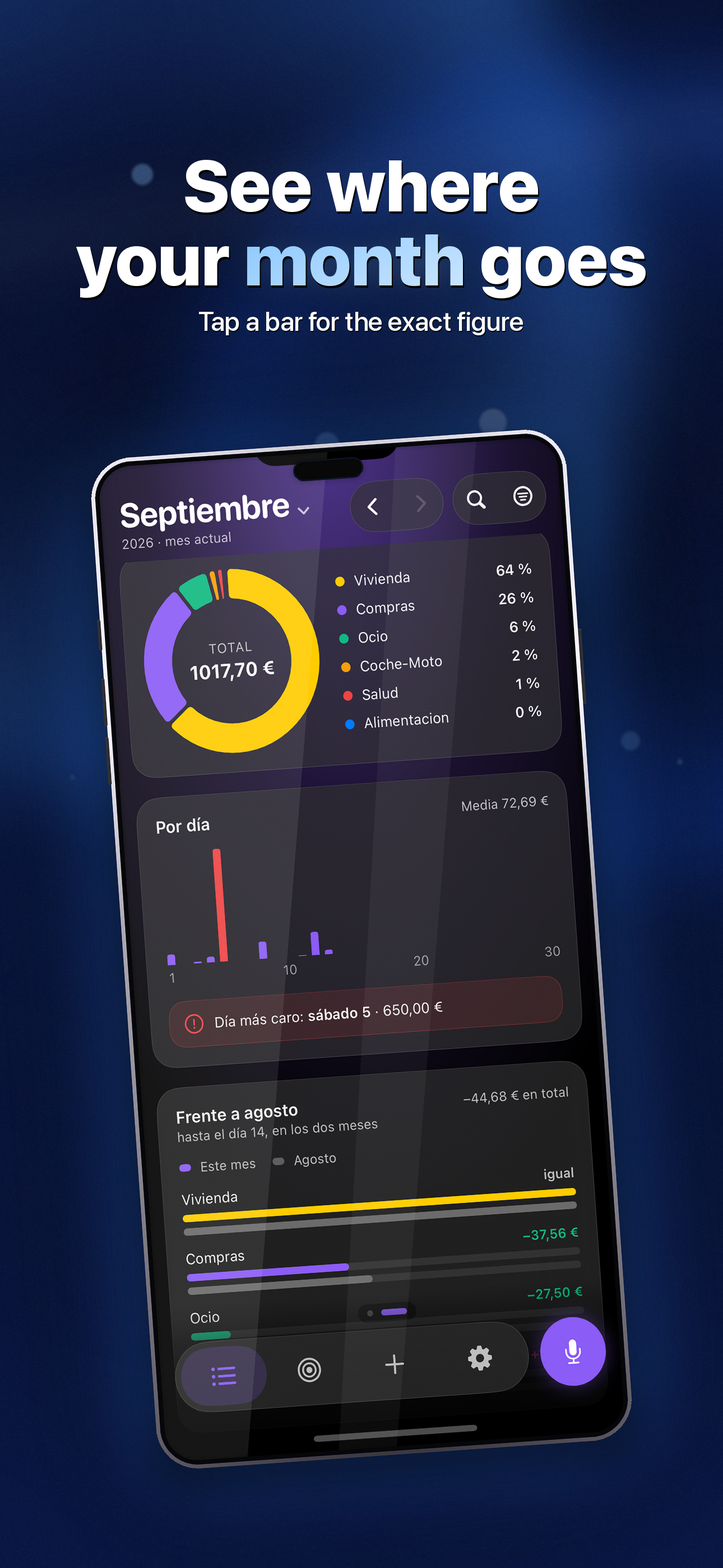
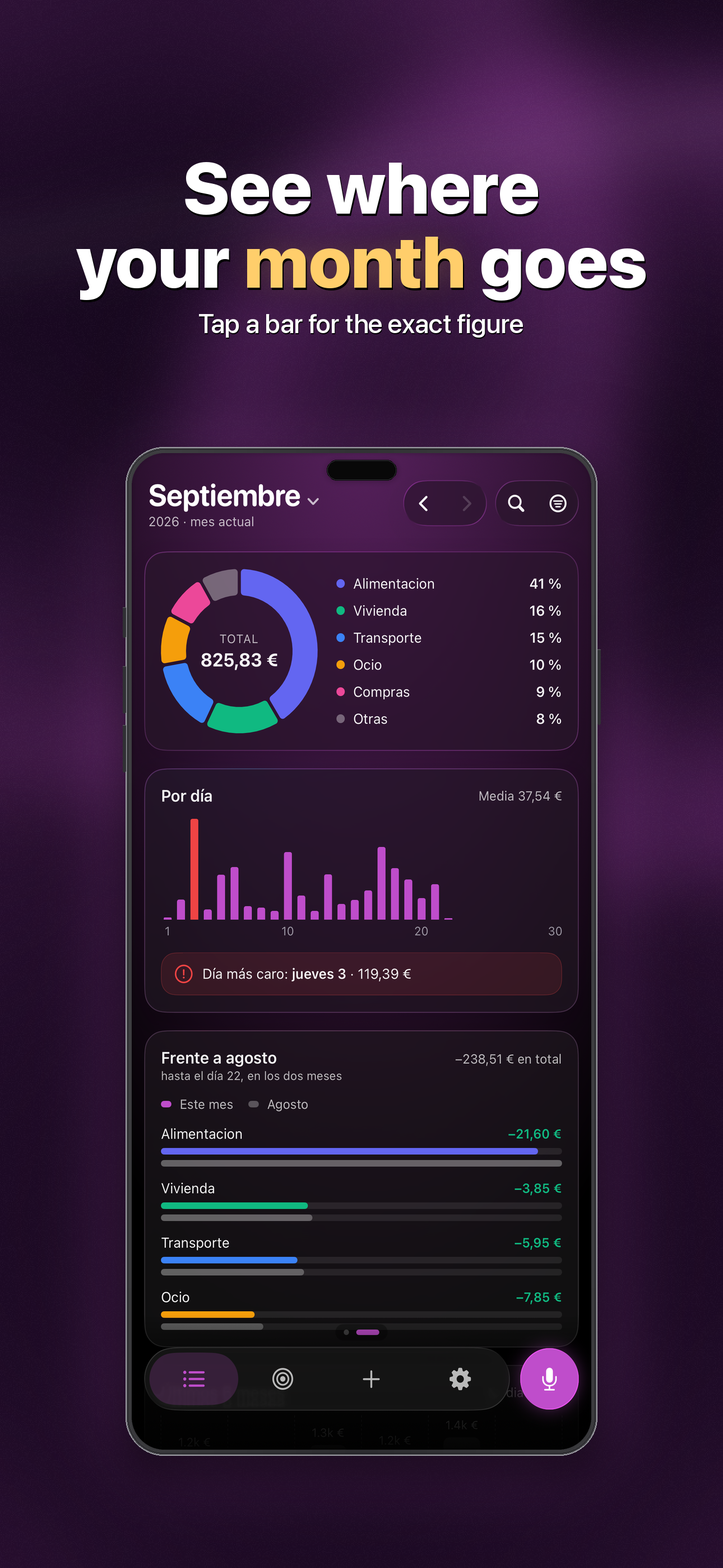
chore(tienda): capturas nuevas con datos inventados y la paleta Deep Berry
Las de antes salían de la cuenta real del desarrollador, con sus gastos y la
paleta violeta de la 2.2. Las nuevas se hacen con el modo demo en un
simulador propio (iPhone 17 Pro Max, iOS 26.5, oscuro, barra de estado
limpia) y se pasan a 1290x2796 escalando a lo ancho y recortando 7 px.

- Home, Gráficas y Metas nuevas en marketing/screenshots/input; 4_voice y
  4_voice_en compuestas de nuevo sobre la Home nueva.
- componer_captura_voz.py y generate_mockups.py con la paleta Deep Berry:
  fondo y brillos en orquídea/berry y la palabra destacada en mango. La
  captura de voz ya no dice «Coche-Moto», una categoría personal, sino
  Transporte, la de fábrica.
- generate_mockups.py monta el 01 desde 4_voice.png (con 1_home.png quedaba
  igual que el 04, #71) y el subtítulo de Metas vuelve a ser el publicado,
  «límites por categoría».
- Candidata fuera de fastlane: mockup_05_editar, la Home en modo edición,
  «Tu Home, a tu manera» / «Your Home, your way».
- fastlane/screenshots/{es-ES,en-US}: los cuatro mockups nuevos.

diff --git a/scripts/generate_mockups.py b/scripts/generate_mockups.py
@@ -88,32 +88,38 @@ def load_font(size: int, weight: str = "Bold", rounded: bool = False) -> ImageFo
     return font
 
 
+# ─── Paleta Deep Berry (Clarity/UI/Theme/Colors.swift, desde la 2.3.1) ─
+# Fondo y brillos en la familia berry; la palabra destacada del titular en
+# clarityMango, el único acento cálido de la app (el de la cifra del héroe y
+# el botón principal).
+PRIMARY = (191, 77, 203)     # clarityPrimary   #BF4DCB (orquídea)
+SECONDARY = (218, 141, 226)  # claritySecondary #DA8DE2
+ACCENT = (141, 59, 150)      # clarityAccent    #8D3B96
+BERRY = (88, 33, 94)         # clarityBerry     #58215E
+MANGO = (255, 206, 107)      # clarityMango     #FFCE6B
+
 # ─── Mockup configurations ────────────────────────────────────────────
 # `accent`: word(s) inside `headline` that get colored (case-insensitive match)
 # `blobs`: list of (x_frac, y_frac, radius, rgb, alpha) for mesh gradient
 # `chip`: optional floating feature pill (text, emoji, position anchor)
 MOCKUPS = [
     {
-        "input": "1_home.png",
+        # Compuesta por componer_captura_voz.py: la Home desenfocada con el
+        # panel de escucha. Con 1_home.png salía igual que la 04 (#71).
+        "input": "4_voice.png",
         "output": "mockup_01_voice.png",
         # La prueba visual del diferenciador: la app escuchando y parseando.
         "headline": "\"20 euros\nen gasolina\"",
         "accent": "gasolina",
         "subtitle": "Por voz o con Siri, sin escribir nada",
-        "bg_base": (30, 10, 60),
+        "bg_base": (30, 9, 34),
         "blobs": [
-            (0.20, 0.18, 900, (190, 100, 255), 160),
-            (0.85, 0.35, 780, (130, 50, 230), 140),
-            (0.50, 0.78, 1100, (55, 15, 110), 110),
+            (0.20, 0.18, 900, PRIMARY, 150),
+            (0.85, 0.35, 780, ACCENT, 140),
+            (0.50, 0.78, 1100, BERRY, 120),
         ],
-        "accent_color": (220, 175, 255),
-        "shadow_tint": (150, 70, 240),
-        "voice_overlay": {
-            "phrase": "\"20 euros en gasolina\"",
-            "result_name": "Gasolina",
-            "result_amount": "20,00 €",
-            "result_emoji": "⛽",
-        },
+        "accent_color": MANGO,
+        "shadow_tint": PRIMARY,
     },
     {
         "input": "1_home.png",
@@ -123,14 +129,14 @@ MOCKUPS = [
         "headline": "Controla tus gastos\nal instante",
         "accent": "gastos",
         "subtitle": "Una Home que sabe lo que te importa",
-        "bg_base": (28, 12, 52),
+        "bg_base": (28, 8, 32),
         "blobs": [
-            (0.18, 0.18, 900, (155, 80, 255), 160),
-            (0.85, 0.35, 750, (95, 40, 200), 130),
-            (0.50, 0.75, 1100, (60, 20, 140), 110),
+            (0.18, 0.18, 900, PRIMARY, 150),
+            (0.85, 0.35, 750, SECONDARY, 90),
+            (0.50, 0.75, 1100, BERRY, 120),
         ],
-        "accent_color": (210, 170, 255),
-        "shadow_tint": (120, 60, 230),
+        "accent_color": MANGO,
+        "shadow_tint": PRIMARY,
         "chip": {"emoji": "🎙", "text": "\"20 € en gasolina\"", "side": "left"},
     },
     {
@@ -139,14 +145,14 @@ MOCKUPS = [
         "headline": "Mira en qué\nse te va el mes",
         "accent": "mes",
         "subtitle": "Toca una barra y ve el dato exacto",
-        "bg_base": (8, 18, 55),
+        "bg_base": (24, 8, 32),
         "blobs": [
-            (0.22, 0.20, 900, (60, 140, 255), 160),
-            (0.82, 0.30, 780, (20, 80, 210), 140),
-            (0.50, 0.78, 1100, (10, 40, 120), 110),
+            (0.22, 0.20, 900, ACCENT, 160),
+            (0.82, 0.30, 780, PRIMARY, 120),
+            (0.50, 0.78, 1100, BERRY, 120),
         ],
-        "accent_color": (140, 200, 255),
-        "shadow_tint": (40, 120, 240),
+        "accent_color": MANGO,
+        "shadow_tint": ACCENT,
         "chip": {"emoji": "📊", "text": "Categorías", "side": "right"},
     },
     {
@@ -154,15 +160,15 @@ MOCKUPS = [
         "output": "mockup_03_goals.png",
         "headline": "Ahorra con\nobjetivos claros",
         "accent": "objetivos",
-        "subtitle": "Metas, huchas y presupuestos",
-        "bg_base": (5, 45, 35),
+        "subtitle": "Metas, huchas y límites por categoría",
+        "bg_base": (30, 9, 30),
         "blobs": [
-            (0.20, 0.20, 900, (60, 220, 160), 160),
-            (0.82, 0.32, 780, (20, 170, 120), 140),
-            (0.50, 0.78, 1100, (5, 70, 55), 110),
+            (0.20, 0.20, 900, SECONDARY, 110),
+            (0.82, 0.32, 780, PRIMARY, 140),
+            (0.50, 0.78, 1100, BERRY, 120),
         ],
-        "accent_color": (150, 245, 200),
-        "shadow_tint": (50, 200, 140),
+        "accent_color": MANGO,
+        "shadow_tint": PRIMARY,
         "chip": {"emoji": "🐖", "text": "+200 €", "side": "right"},
     },
     {
@@ -171,15 +177,31 @@ MOCKUPS = [
         "headline": "Sin abrir\nla app",
         "accent": "Sin abrir",
         "subtitle": "Díselo a Siri y listo",
-        "bg_base": (10, 20, 48),
+        "bg_base": (24, 8, 32),
         "blobs": [
-            (0.22, 0.20, 900, (80, 150, 255), 160),
-            (0.82, 0.30, 780, (40, 90, 220), 140),
-            (0.50, 0.78, 1100, (15, 45, 110), 110),
+            (0.22, 0.20, 900, ACCENT, 160),
+            (0.82, 0.30, 780, PRIMARY, 120),
+            (0.50, 0.78, 1100, BERRY, 120),
         ],
-        "accent_color": (150, 200, 255),
-        "shadow_tint": (60, 130, 240),
+        "accent_color": MANGO,
+        "shadow_tint": ACCENT,
         "chip": {"emoji": "✨", "text": "Oye Siri…", "side": "right"},
+    },
+    {
+        # Candidata (2.4.0), fuera de fastlane: la Home en modo edición.
+        "input": "5_editar.png",
+        "output": "mockup_05_editar.png",
+        "headline": "Tu Home,\na tu manera",
+        "accent": "a tu manera",
+        "subtitle": "Mueve, quita y añade tarjetas",
+        "bg_base": (28, 8, 32),
+        "blobs": [
+            (0.80, 0.18, 900, PRIMARY, 150),
+            (0.15, 0.40, 780, SECONDARY, 90),
+            (0.50, 0.78, 1100, BERRY, 120),
+        ],
+        "accent_color": MANGO,
+        "shadow_tint": PRIMARY,
     },
 ]
 
@@ -706,25 +728,26 @@ TRANSLATIONS = {
         "mockup_03_goals.png": {
             "headline": "Save with\nclear goals",
             "accent": "goals",
-            "subtitle": "Goals, pots and budgets",
+            "subtitle": "Goals, pots and limits per category",
             "chip_text": "+200 €",
         },
         "mockup_01_voice.png": {
+            # La compuesta en inglés (componer_captura_voz.py).
+            "input": "4_voice_en.png",
             "headline": '"20 euros\non gas"',
             "accent": "gas",
             "subtitle": "By voice or with Siri, nothing to type",
-            "voice_overlay": {
-                "phrase": '"20 euros on gas"',
-                "result_name": "Gas",
-                "result_amount": "20,00 €",
-                "result_emoji": "⛽",
-            },
         },
         "mockup_05_siri.png": {
             "headline": "Without\nopening the app",
             "accent": "Without",
             "subtitle": "Just tell Siri",
             "chip_text": "Hey Siri…",
+        },
+        "mockup_05_editar.png": {
+            "headline": "Your Home,\nyour way",
+            "accent": "your way",
+            "subtitle": "Move, remove and add cards",
         },
     }
 }
@@ -737,6 +760,8 @@ def localized(config: dict, locale: str) -> dict:
         return config
 
     localized_config = dict(config)
+    if "input" in strings:
+        localized_config["input"] = strings["input"]
     localized_config["headline"] = strings["headline"]
     localized_config["accent"] = strings["accent"]
     localized_config["subtitle"] = strings["subtitle"]

diff --git a/scripts/componer_captura_voz.py b/scripts/componer_captura_voz.py
@@ -22,8 +22,12 @@ sys.path.insert(0, str(Path(__file__).resolve().parent))
 import generate_mockups as g  # load_font y render_emoji
 
 W, H = 1290, 2796
-ACENTO = (190, 140, 255)
-EXITO = (52, 211, 153)
+# Paleta Deep Berry de la app (UI/Theme/Colors.swift): la onda y el importe
+# en claritySecondary, que sobre el panel oscuro se lee mejor que el orquídea.
+ACENTO = (218, 141, 226)   # claritySecondary #DA8DE2
+EXITO = (52, 211, 153)     # el verde de «guardado»: semántico, no de marca
+VELO = (14, 4, 16, 170)    # sobre la Home desenfocada, hacia clarityBerry
+PANEL = (34, 12, 38, 240)  # clarityBerry #58215E muy oscurecido
 
 TEXTOS = {
     "4_voice.png": {
@@ -31,14 +35,14 @@ TEXTOS = {
         "frase": "«20 euros en gasolina»",
         "nombre": "Gasolina",
         "importe": "20,00 €",
-        "guardado": "Guardado en Coche-Moto",
+        "guardado": "Guardado en Transporte",
     },
     "4_voice_en.png": {
         "estado": "LISTENING",
         "frase": "“20 euros on gas”",
         "nombre": "Gas",
         "importe": "20,00 €",
-        "guardado": "Saved to Car",
+        "guardado": "Saved to Transport",
     },
 }
 
@@ -47,7 +51,7 @@ def componer(home: Image.Image, t: dict) -> Image.Image:
     lienzo = home.convert("RGBA").resize((W, H), Image.LANCZOS)
     # La Home, detrás y fuera de foco: que se note que es otro momento.
     lienzo = lienzo.filter(ImageFilter.GaussianBlur(radius=22))
-    lienzo.alpha_composite(Image.new("RGBA", (W, H), (8, 4, 18, 170)))
+    lienzo.alpha_composite(Image.new("RGBA", (W, H), VELO))
 
     margen = 60
     panel_w, panel_h = W - margen * 2, 1240
@@ -56,7 +60,7 @@ def componer(home: Image.Image, t: dict) -> Image.Image:
     panel = Image.new("RGBA", (W, H), (0, 0, 0, 0))
     ImageDraw.Draw(panel).rounded_rectangle(
         [(px, py), (px + panel_w, py + panel_h)], radius=84,
-        fill=(24, 14, 46, 240), outline=(255, 255, 255, 50), width=3,
+        fill=PANEL, outline=(255, 255, 255, 50), width=3,
     )
     lienzo.alpha_composite(panel)
     d = ImageDraw.Draw(lienzo)
